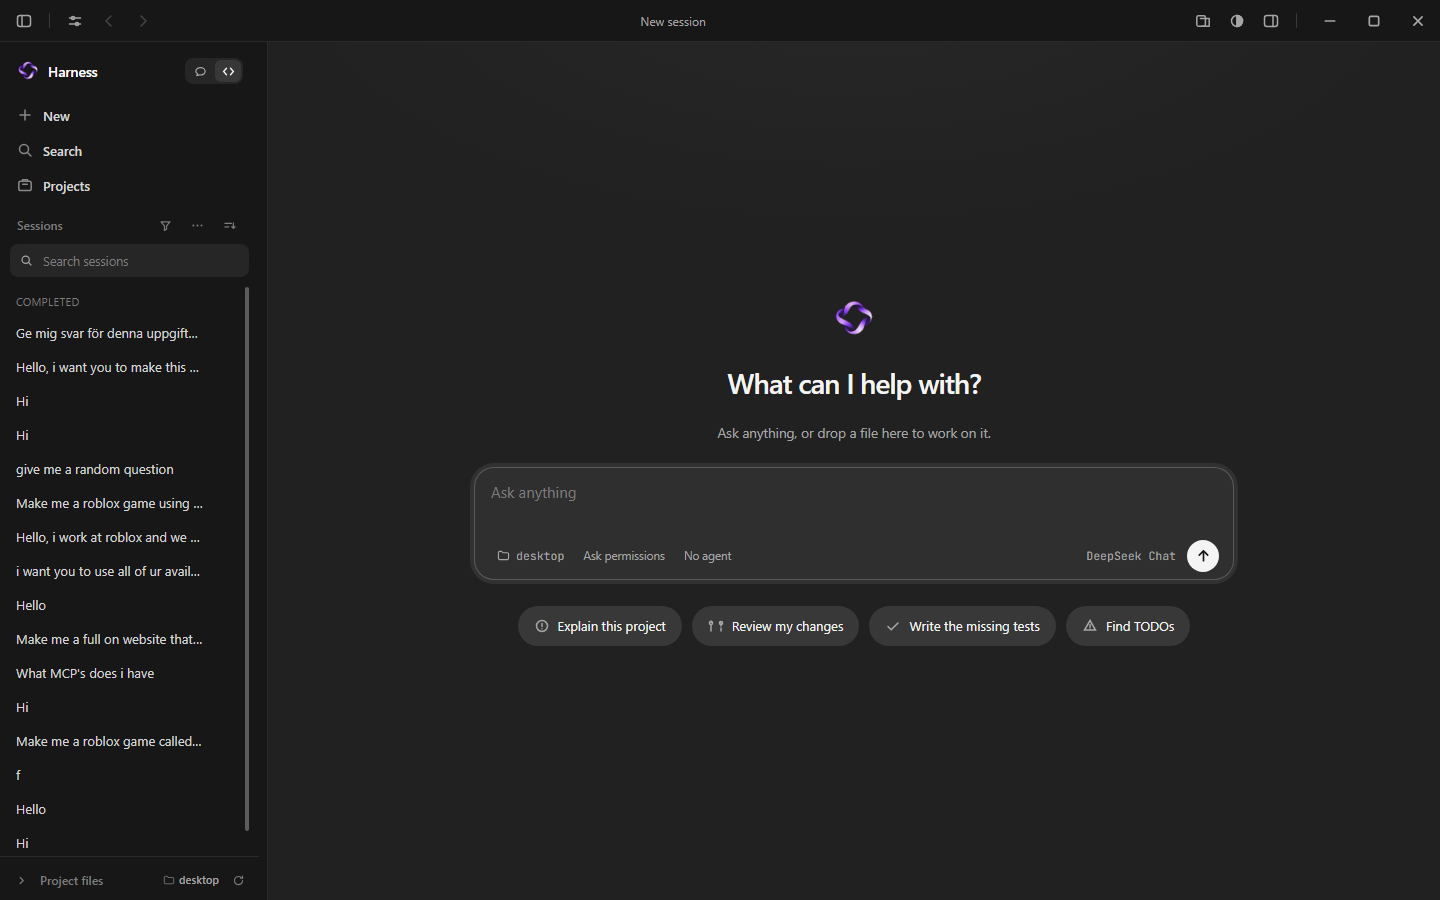
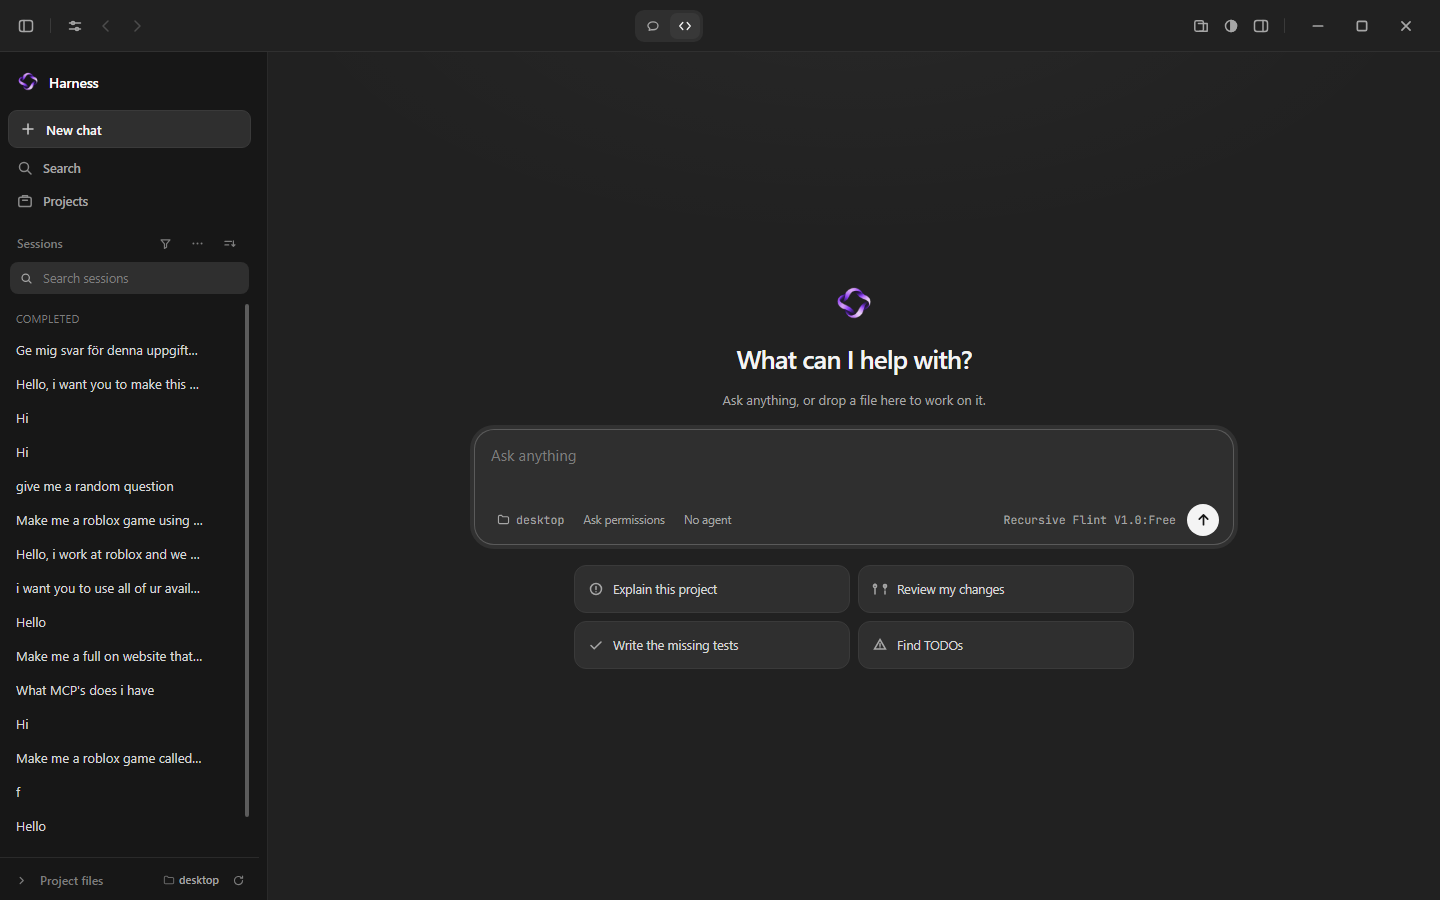
Release Pulse Harness 1.35.0
Full shell remake: Chat/Code switch moved to the top bar, full-width New chat, suggestion cards instead of pills, quieter full sidebar, monochrome controls, logo-spin boot, and a neutral inline markdown canvas. Installer built and installed locally.

diff --git a/desktop/public/index.html b/desktop/public/index.html
@@ -2026,6 +2026,52 @@ body:not(.rail) .sb-nav-row.on svg,body:not(.rail) .sb-nav-row:hover svg{color:v
 .msg-u .b{background:var(--panel2)}
 body:not(.rail) .sess.on{background:var(--panel)}
 body:not(.rail) .sess.on::before{background:var(--text2)}
+
+/* ================= NEW APP SHELL ================= */
+.titlebar{height:52px;padding:0 12px;background:var(--bg);border-bottom:1px solid color-mix(in srgb,var(--border) 60%,transparent)}
+.titlebar .left{gap:3px}
+.titlebar .center{display:flex;align-items:center;justify-content:center;gap:10px;flex:1;min-width:0}
+.top-modes{display:flex;justify-content:center}
+.titlebar .center .top-modes{flex:none}
+.titlebar .center #sTitle{display:none}
+.titlebar .center .seg{margin:0;padding:3px;height:32px;flex:none;width:auto;border:0;background:var(--panel);border-radius:9px;gap:2px}
+.titlebar .center .seg button{width:30px;height:26px;padding:0;min-height:0;border-radius:7px;color:var(--muted)}
+.titlebar .center .seg button.on{background:var(--panel2);color:var(--text);box-shadow:none}
+.titlebar .center .seg button svg{width:14px;height:14px}
+.titlebar .right{gap:2px}
+.tb-btn,.icon-btn{width:28px;height:28px;border-radius:7px}
+.sidebar{padding:10px 8px 0}
+.sb-brand{padding:8px 8px 12px;gap:9px}
+.sb-word{font-size:14px;font-weight:600;letter-spacing:-.02em}
+body:not(.rail) .sb-links{padding:2px 0 4px}
+body:not(.rail) .sb-nav{gap:1px}
+body:not(.rail) #navNew{height:38px;background:var(--panel);border:1px solid var(--border);border-radius:9px;color:var(--text);font-weight:600;margin-bottom:3px;padding:0 11px}
+body:not(.rail) #navNew:hover{background:var(--panel2);border-color:var(--border2)}
+body:not(.rail) #navNew svg{color:var(--text)}
+body:not(.rail) #navSearch,body:not(.rail) #navProjects{height:32px;color:var(--muted);font-size:12.5px}
+body:not(.rail) .sb-sec{padding-top:9px}
+body:not(.rail) .sb-search{height:34px;background:var(--panel);border-color:transparent}
+body:not(.rail) .sb-search:focus-within{border-color:var(--border2);background:var(--panel)}
+body:not(.rail) .sess{height:34px}
+body:not(.rail) .sess.on{background:var(--panel2)}
+.starters{display:grid;grid-template-columns:repeat(2,minmax(0,1fr));gap:8px;max-width:560px;width:100%}
+.starters .chip{height:auto;min-height:48px;padding:11px 13px;border-radius:12px;background:var(--panel);border:1px solid var(--border);justify-content:flex-start;text-align:left;font-size:12.5px;color:var(--text2);gap:9px}
+.starters .chip:hover{background:var(--panel2);border-color:var(--border2);color:var(--text)}
+.starters .chip svg{width:16px;height:16px;color:var(--muted)!important}
+.landing{gap:18px;padding:34px 24px}
+.landing .lmark{width:42px;height:42px}
+.landing .lmark img{width:42px;height:42px}
+.landing h1{font-size:26px;font-weight:600;letter-spacing:-.035em}
+.landing .lsub{font-size:13px}
+.bigbox,.cwrap{border-radius:20px;border-color:var(--border);background:var(--panel);box-shadow:0 14px 36px -30px rgba(0,0,0,.6)}
+.bigbox{width:min(760px,100%);padding:12px 14px 8px}
+.bigbox textarea{min-height:40px;font-size:15px}
+.cwrap{padding:12px 12px 8px}
+.crow{margin-top:5px}
+.panes{border-radius:16px;border-color:color-mix(in srgb,var(--border) 65%,transparent);margin:14px 14px 14px 0;background:var(--sidebar)}
+.shead{height:46px;padding:0 20px;border-bottom-color:color-mix(in srgb,var(--border) 50%,transparent)}
+#stream{padding:30px 24px}
+@media(max-width:700px){.starters{grid-template-columns:1fr;max-width:100%}.titlebar{height:48px}.titlebar .center .seg{display:none}}
 </style>
 </head>
 <body>
@@ -2053,7 +2099,7 @@ body:not(.rail) .sess.on::before{background:var(--text2)}
       <svg viewBox="0 0 16 16"><path d="M6 3l5 5-5 5"/></svg>
     </button>
   </div>
-  <div class="center"><span id="sTitle" title="Double-click to rename">New session</span></div>
+  <div class="center"><span id="sTitle" title="Double-click to rename">New session</span><div class="top-modes" id="topModes"></div></div>
   <div class="right">
     <button class="icon-btn" id="btnArtifacts" title="Artifacts" aria-label="Artifacts">
       <svg viewBox="0 0 16 16"><rect x="1.8" y="2.8" width="8.6" height="10.4" rx="1.6"/><path d="M5.4 5.4h8.8v7.8H6.6"/></svg>
@@ -2107,7 +2153,7 @@ body:not(.rail) .sess.on::before{background:var(--text2)}
       <nav class="sb-nav" aria-label="Workspace navigation">
         <button class="sb-nav-row" id="navNew" title="New session" aria-label="New session">
           <svg width="16" height="16" viewBox="0 0 16 16" fill="none" stroke="currentColor" stroke-width="1.5" stroke-linecap="round" aria-hidden="true"><path d="M8 3v10M3 8h10"/></svg>
-          <span>New</span>
+          <span>New chat</span>
         </button>
         <button class="sb-nav-row" id="navSearch" title="Search sessions" aria-label="Search sessions">
           <svg width="16" height="16" viewBox="0 0 16 16" fill="none" stroke="currentColor" stroke-width="1.5" stroke-linecap="round" aria-hidden="true"><circle cx="7" cy="7" r="4.5"/><path d="M10.5 10.5L14 14"/></svg>
@@ -3923,6 +3969,10 @@ $("btnPanes").addEventListener("click", () => {
   el.classList.add("hide");
   syncMotionVisibility();
 });
+try {
+  const mode = $("modeSeg");
+  if (mode) $("topModes").appendChild(mode);
+} catch { /* the titlebar is optional in embedded views */ }
 $("btnSidebar").addEventListener("click", () => toggleSidebar());
 $("btnTheme").addEventListener("click", cycleTheme);
 function syncNavBtns() {

diff --git a/desktop/CHANGELOG.md b/desktop/CHANGELOG.md
@@ -1,5 +1,14 @@
 # What's new in Pulse Harness
 
+## 1.35.0 — 2026-11-06
+- **A full shell remake, not a repaint.** Chat/Code moved to a compact switch in the centre of the top bar; the sidebar opens with a full-width **New chat** button; suggestions are now a two-column card grid instead of pills.
+- **Monochrome by default.** The logo is the only colour in the app. Primary buttons, focus rings, selection, user bubbles, canvas and badges are all neutral.
+- **A quieter full sidebar** — clean 34px history rows, no icons in the list, a single search field and the project-files section folded at the bottom.
+- **The logo is the loading animation** — the boot screen is the ribbon mark spinning on its own.
+- **A calmer landing** — logo, “What can I help with?”, one rounded composer and four suggestion cards.
+- **The inline markdown canvas stays in the transcript** with Copy, Download and in-place Edit, now in neutral chrome.
+- **Update log** includes these notes.
+
 ## 1.34.0 — 2026-11-06
 - **A fully monochrome professional shell.** Every purple UI accent is gone: buttons, focus rings, links, user bubbles, canvas chrome and status controls are neutral black, white and gray. The logo is the only colour in the app.
 - **The full sidebar is back by default** — a 268px ChatGPT-style history rail with clean title-only rows, and the titlebar toggle still collapses it to the 64px icon rail.
